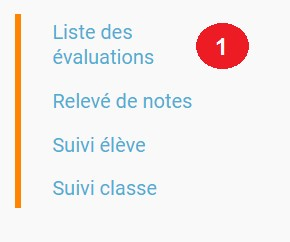
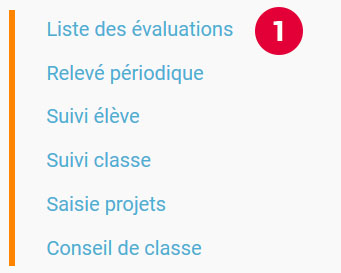
update doc competences

diff --git a/application/viescolaire.md b/application/viescolaire.md
@@ -12,190 +12,235 @@ Le module permet :
 * la mise à disposition d’un **relevé de notes**
 * la possibilité de remplacement d’enseignants \(pour le chef d’établissement\)
 
-![](.gitbook/assets/competences-presentation-2%20%282%29.jpg)
+![](.gitbook/assets/competences-presentation.jpg)
 
 ## Créer une évaluation avec des compétences
 
 Pour créer une évaluation **avec des compétences**, suivez les étapes suivantes :
 
-* Cliquez sur le bouton « Créer évaluation » \(1\)
+* Cliquez sur le bouton **« Nouvelle évaluation » \(1\)**
 
-![](.gitbook/assets/evaluation-avec-des-competences-1-2%20%282%29.jpg)
+![](.gitbook/assets/evaluation-avec-des-competences.jpg)
 
-* Sélectionner ou saisir les informations obligatoires suivantes \(2\) :
+![](.gitbook/assets/evaluation-avec-des-competences-2.jpg)
+
+* Sélectionner ou saisir les **informations obligatoires** suivantes **\(2\)** :
   * Établissement
-  * Classe ou groupe du cycle 3
+  * Classe ou groupe du cycle 3 ou du cycle 4
   * Matière
   * Type
-* Titre de l'évaluation et description \(3\)
-* Cocher si vous le souhaitez la case "Activer l'évaluation numérique ?" pour évaluer les élèves avec des notes ou pas. \(4\)
-* Modifier si besoin le coefficient et la note maximum \(5\)
-* Choisissez la période
+* **Titre** de l'évaluation et description **\(3\)**
+* Cocher si vous le souhaitez la case **"Activer l'évaluation numérique"** pour évaluer les élèves avec des notes **\(4\)**
+* Modifier si besoin le coefficient et la note maximum
+* Choisissez **la période \(5\)**
   * Date de l'évaluation et date de publication de la note
-  * Date de l'évaluation et date de publication de la note
-* Cliquer sur l’onglet "Compétences" \(6\)
+* Enfin l'option **"Rendre visible les appréciations saisies"** autorise l'affichage ou non des appréciations aux élèves et aux parents - cette option peut être activée directement lors de l'évaluation du dehors.**\(6\)**
 
-![](.gitbook/assets/evaluation-avec-des-competences-2-1-1.jpg)
 
-* Sélectionner des connaissances ou compétences \(7\)
-* Cliquez sur "Enregistrer" \(8\)
 
-![](.gitbook/assets/evaluation-avec-des-competences-3-1%20%281%29.jpg)
+* Cliquer sur l’onglet **"Compétences"** si vous osuhaitez ajouter des compétences à l'évaluation **\(7\)**
 
-## Créer une évaluation sans compétences
+![](.gitbook/assets/evaluation-avec-des-competences-3.jpg)
 
-Pour créer une évaluation **sans compétence**, suivez les étapes suivantes :
+* **Filtrer** les enseignements et / ou les domaines - rechercher un item de compétences **\(8\)**
+* Sélectionner des éléments signifiants ou des **items de compétences \(9\)**
+* Visualiser le **résumé de l'évaluation** que vous êtes sur le point de créer - les items de compétences peuvent être ordonnés grâce au glisser/déposer **\(10\)**
+* Cliquer sur **"Enregistrer"** pour sauvegarder l'évaluation **\(11\)**
 
-* Cliquez sur le bouton « Créer évaluation » \(1\)
-
-![](.gitbook/assets/evaluation-avec-des-competences%20%283%29.jpg)
-
-* Sélectionner ou saisir les informations obligatoires suivantes \(2\) :
-  * Établissement
-  * Classe ou groupe du cycle 3
-  * Matière
-  * Type
-* Titre de l'évaluation et description \(3\)
-* Cocher si vous le souhaitez la case "Activer l'évaluation numérique ?" pour évaluer les élèves avec des notes ou pas. \(4\)
-* Modifier si besoin le coefficient et la note maximum \(5\)
-* Choisissez la période
-  * Date de l'évaluation et date de publication de la note
-  * Date de l'évaluation et date de publication de la note
-* Cliquer sur l’onglet "Compétences" \(6\)
-
-![](.gitbook/assets/evaluation-avec-des-competences-2-1%20%283%29.jpg)
-
-_**Par défaut seuls les enseignants sont habilités à créer des évaluations.**_
+***Par défaut, seuls les enseignants sont habilités à créer des évaluations.***
 
 ## Evaluer un élève
 
 Pour évaluer les élèves suivez les étapes suivantes :  
-1. Cliquez sur le menu "Liste des évaluations"
+1. Cliquez sur le menu **"Liste des évaluations" \(1\)**
 
-![](.gitbook/assets/evaluer-un-eleve-1-2.jpg)
+![](.gitbook/assets/evaluer-un-eleve-1.jpg)
 
-1. Renseigner les critères
-2. Cliquer que le devoir à évaluer
+2. Renseigner **les critères \(2\)**
 
 ![](.gitbook/assets/evaluer-un-eleve-2%20%283%29.jpg)
 
-1. Le détail de l’évaluation est disponible sur la partie gauche de l’écran
-2. Si le devoir est numérique, il est possible de mettre des notes à chaque élève dans la colonne résultat \(possibilité d’utiliser le clavier pour se déplacer d’élèves en élèves\)
-3. Si le devoir possède une ou plusieurs compétences, il est possible d’évaluer les compétences des élèves avec les pastilles \(possibilité d’utiliser le clavier avec les touches de 0 à 4 pour évaluer les compétences\)
-   * Pastille grise : Compétence non évaluée
-   * Pastille rouge : Maitrise insuffisante
-   * Pastille orange : maitrise fragile
-   * Pastille jaune : maitrise satisfaisante
-   * Pastille verte : très bonne maitrise
+Le nombre des compétences ajoutées et le pourcentage d'avancement d'un devoir (noté ou avec des compétences à évaluer) est visibile directement sur cet écran.
 
-Le détail des compétences est disponible sur la partie droite de l’écran
+3. Cliquer sur **le devoir à évaluer \(3\)**
 
-1. Une appréciation peut être indiquée dans le champ Appréciation. Si le devoir comprend beaucoup de compétences, l’appréciation est accessible via le bouton :  ![](.gitbook/assets/evaluer-un-eleve-3.jpg)
+![](.gitbook/assets/evaluer-un-eleve-4-1.jpg)
 
-![](.gitbook/assets/evaluer-un-eleve-4.jpg)
+4. Le **détail de l’évaluation** est disponible sur la partie gauche de l’écran **\(4\)**
+
+5. Si l'évaluation numérique a été activée, il est possible de **mettre des notes à chaque élève dans la colonne résultat** \(possibilité d’utiliser le clavier pour se déplacer d’élèves en élèves\) **\(5\)**
+
+6. Si le devoir possède une ou plusieurs compétences, il est possible **d’évaluer les compétences** des élèves avec les pastilles \(possibilité d’utiliser le clavier avec les touches de 0 à 4 pour évaluer les compétences\)**\(6\)**
+   * ![](.gitbook/assets/pastille-grise.png) Pastille grise : Compétence non évaluée
+   * ![](.gitbook/assets/pastille-rouge.png) Pastille rouge : Maîtrise insuffisante
+   * ![](.gitbook/assets/pastille-orange.png) Pastille orange : Maîtrise fragile
+   * ![](.gitbook/assets/pastille-jaune.png) Pastille jaune : Maîtrise satisfaisante
+   * ![](.gitbook/assets/pastille-verte.png) Pastille verte : très bonne maîtrise
+
+Le **détail des compétences** est disponible sur la partie droite de l’écran **\(7\)**.
+
+7. Une **appréciation peut être indiquée dans le champ Appréciation \(8\)**. Si le devoir comprend beaucoup de compétences, l’appréciation est accessible via le bouton :  ![](.gitbook/assets/evaluer-un-eleve-3.jpg)
+
+Des **exports** vous seront proposés \(cartouches - formulaires de saisie vides - les résultats des devoirs\) **\(9\)**
+
+![](.gitbook/assets/cartouche1.jpg)
+
+![](.gitbook/assets/resultats-devoir-1.jpg)
 
 ## Accéder au relevé de notes
 
 Pour accéder au relevé de notes, suivez les étapes suivantes :
 
-1. Cliquez sur le menu «Relevés de notes »
+1. Cliquez sur le menu **«Relevés périodique » \(1\)**
 
-![](.gitbook/assets/releve-de-notes-1%20%281%29.jpg)
+![](.gitbook/assets/releve-de-notes.jpg)
 
-1. Renseigner les critères  
-2. Il est possible d’accéder aux détails des devoirs en cliquant sur l’entête de l’évaluation \(une évaluation avec des compétences est soulignée en orange\)  
-3. Il est possible de modifier les notes des élèves directement sur le relevé
+2. Renseigner **les critères \(2\)**
 
-![](.gitbook/assets/releve-de-notes-2-2%20%281%29.jpg)
+![](.gitbook/assets/releve-de-notes-2.jpg)
+
+3. Il est possible d’accéder aux **détails des devoirs** en cliquant sur l’entête de l’évaluation \(une évaluation avec des compétences est soulignée en orange\) **\(3\)**.
+
+4. Une aide à la saisie est proposée pour la **saisie des éléments du programme travaillés \(4\)**.
+
+5. Il est possible de **modifier les notes des élèves directement** sur le relevé. La moyenne peut, elle aussi, être ajustée ainsi que les appréciations de chaque élève. **\(5\)**.
+
+6. L'**affichage du relevé périodique peut être simplifié** en cliquant sur **"<<"** afin de n'afficher que les moyennes et les appréciations des élèves **\(6\)**.
+
+7. Le **clic sur le détail** pour un élève **\(7\)** permet de saisir ici également l'appréciation.
+
+![](.gitbook/assets/releve-de-notes-3-1.jpg)
+
+Un **rappel des moyennes** est affiché **\(8\)** et le positionnement calculé est modifiable.
+Les **notes détaillées obtenues lors des évaluations** (notes et compétences) apparaissent ici aussi **\(9\)**.
+En bas, on retrouve **l'historique de l'année \(10\)**.
+Le clic sur le **lien "Voir Détails" \(11\)** affiche le niveau obtenu par compétences de l'élève pour la période et la matière consultée.
+
+![](.gitbook/assets/releve-de-notes-4.jpg)
+
+Vous pouvez également consulter les **différents graphes** proposés par enseignement ou par domaine du socle **\(12\)**.
+
+![](.gitbook/assets/releve-de-notes-5.jpg)
 
 ## Suivre le niveau des élèves
 
 Pour suivre le niveau des élèves individuellement, suivez les étapes suivantes :
 
-1. Cliquez sur le menu « Suivi élève »
+1. Cliquez sur le menu **« Suivi élève » \(1\)**
 
-![](.gitbook/assets/suivre-le-niveau-des-eleves-1-1-2.jpg)
+![](.gitbook/assets/suivre-le-niveau-des-eleves-1.jpg)
 
-1. Renseigner les critères pour choisir un élève
-2. Il est possible d’afficher le détail des évaluations ayant entrainé le suivi d’une compétence en cliquant sur la compétence souhaitée.
+2. Renseigner les **critères pour choisir un élève \(2\)** - Visualisation de la fiche élève et accès à la légende sur la partie gauche de l'écran.
 
-![](.gitbook/assets/suivre-le-niveau-des-eleves-2-1.jpg)
+![](.gitbook/assets/suivre-le-niveau-des-eleves-2.jpg)
 
-1. Par défaut une vue graphique est affichée. Il est cependant possible d’accéder à une vue en liste
-2. L’ajout d’une évaluation libre est également possible sur cette page en cliquant sur « Ajouter une évaluation libre ». Elle permet d’évaluer la compétence de l’élève.
+3. Le clic sur la barre de compétences permet d'afficher le **détail des évaluations d'une compétence en particulier \(3\)**.
 
-![](.gitbook/assets/suivre-le-niveau-des-eleves-3-1%20%282%29.jpg)
+![](.gitbook/assets/suivre-le-niveau-des-eleves-3.jpg)
 
-## Visualiser le bilan de suivi des élèves
+Par défaut une **vue graphique** est affichée. Il est cependant possible d’accéder à une vue en liste \(4\).
 
-Pour voir le bilan du niveau des élèves individuellement, suivez les étapes suivantes :
-
-1. Cliquez sur le menu « Suivi élève »
-
-![](.gitbook/assets/suivre-le-niveau-des-eleves-1-2.jpg)
-
-1. Renseigner les critères pour choisir un élève  
-2. Il est possible d’afficher le bilan de compétences d’un élève en cliquant sur : ![](.gitbook/assets/visualisation-bilan-1%20%281%29.jpg) 
-
-![](.gitbook/assets/visualisation-bilan-2-1.jpg)
-
-Le bilan du niveau de compétence de l’élève est accessible
-
-![](.gitbook/assets/visualisation-bilan-3-1%20%281%29.jpg)
+L’ajout d’une évaluation libre est également possible sur cette page en cliquant sur **« Ajouter une évaluation libre » \(5\)**. Elle permet d’évaluer la compétence de l’élève.
 
 ## Visualiser le bilan de fin de cycle des élèves
 
 Pour voir le bilan du niveau des élèves individuellement, suivez les étapes suivantes :
 
-1. Cliquez sur le menu « Suivi élève »
+1. Cliquez sur le menu **« Suivi élève » \(1\)**
 
-![](.gitbook/assets/suivre-le-niveau-des-eleves-1%20%282%29.jpg)
+![](.gitbook/assets/suivre-le-niveau-des-eleves-1.jpg)
 
-1. Renseigner les critères pour choisir un élève
-2. Il est possible d’afficher le bilan de compétences d’un élève en cliquant sur : ![](.gitbook/assets/visualisation-bilan-5-2%20%282%29.jpg) 
+2. Renseigner les **critères pour choisir un élève \(2\)**
+
+3. Il est possible **d’afficher le bilan de compétences** d’un élève en cliquant sur : ![](.gitbook/assets/visualisation-bilan-5-2%20%282%29.jpg) **\(3\)**
 
 ![](.gitbook/assets/visualisation-bilan-4-1%20%282%29.jpg)
 
 Le bilan de fin de cycle de l’élève est accessible.
 
-![](.gitbook/assets/suivre-le-niveau-des-eleves-4-1.jpg)
+![](.gitbook/assets/suivre-le-niveau-des-eleves-4.jpg)
+
+Le bilan de fin de cycle peut être visualisé par période : par trimestre, pour l'année en cours ou sur le cycle en cours.
+
+Enfin, la **synthèse du bilan de fin de cycle peut être saisie sur cet écran \(6\)** ainsi que les enseignements de complément pour les élèves du cycle 4.
+
+## Exports relevés
+
+Depuis le suivi de l'élève, vous pouvez **exporter les relevés de compétences \(1\) et \(2\) ou relevés de notes**, s'ils existent \(3\) :
+
+![](.gitbook/assets/export1.png)
+
+Les exports de compétences peuvent être générés **par enseignement ou par domaine** - avec choix de matières et de la période - pour un élève \(1\) ou pour toute la classe \(2\).
+L'export de relevé de notes est généré pour un élève uniquement \(3\).
 
 ## Suivre le niveau de compétences des classes
 
 Pour suivre le niveau des compétences de classe, suivez les étapes suivantes :
 
-1. Cliquez sur le menu « Suivi classe »
+1. Cliquez sur le menu **« Suivi classe » \(1\)**
 
-![](.gitbook/assets/suivi-classe-2-1%20%282%29.jpg)
+![](.gitbook/assets/suivi-classe.jpg)
 
-1. Renseigner les critères pour choisir une classe
-2. Pour chaque compétence, le niveau de la classe est affiché sous forme de barre avec différents niveaux de maîtrise.
+2. Renseigner les **critères pour choisir une classe et une période \(2\)**
 
-Il est possible de cliquer sur une compétence pour afficher la liste des élèves avec leur niveau
+3. Pour chaque compétence, le niveau de la classe est affiché sous forme de barre avec différents niveaux de maîtrise atteint par chaque élève \(3\).
 
-![](.gitbook/assets/suivi-classe-2-1.jpg)
+Il est possible de **cliquer sur une compétence** pour afficher la liste des élèves avec leur niveau **\(3\)**.
 
-1. Il est possible de filtrer l’affichage des élèves suivant leur niveau de maitrise de la compétence.
-2. En cliquant sur un élève, s’affiche le suivi de compétence de l’élève
+![](.gitbook/assets/suiviclasse1.png)
 
-![](.gitbook/assets/suivi-classe-3%20%282%29.jpg)
+4. Il est possible de **filtrer l’affichage des élèves** suivant leur niveau de maîtrise de la compétence.
 
-## Effectuer un remplacement
+5. En cliquant sur un élève, s’affiche le **suivi de compétence de l’élève \(5\)**.
 
-Le remplacement d’un enseignant par un autre permet à l’enseignant remplaçant de pouvoir créer des évaluations sur les classes remplacées. L’enseignant titulaire a également la possibilité de voir et gérer ces évaluations.
+![](.gitbook/assets/suiviclasse2.png)
+
+Les exports proposés sur l'écran de suivi de classe \(6\) sont un **récapitulatif des niveaux acquis pour toute la classe** par domaine et un **export de relevé de compétences par élève de toute la classe.**
+
+![](.gitbook/assets/suiviclasse3.png)
+
+## Saisir les projets éducatifs
+
+POur saisir les projets éducatifs paramétrés, suivez les étapes suivantes :
+
+* Cliquer sur le menu **"Saisie de projets" \(1\)**
+
+![](.gitbook/assets/saisie-projet1.jpg)
+
+* Renseigner les critères pour **choisir une période et une classe. \(2\)**
+Tous les projets éducatifs paramétrés pour l'enseignant sur la période choisie et la classe apparaissent **triés par onglet \(3\)**: EPI, AP et Parcours.
+
+![](.gitbook/assets/projets.png)
+
+**Saisir les appréciations sur les élèves concernés par les projets \(4\)** : ces appréciations apparaîtront dans le bilan périodique.
+Vous pouvez aussi saisir une **appréciation pour la classe \(5\)**.
+
+## Exports LSU (chef d'établissement)
+
+Les exports LSU \(bilans de fin de cycle et bilans périodiques\) sont disponibles via le **menu "Export LSU"** - seul l'export **Bilan de fin de cycle est disponible** pour l'instant. L'export Bilan périodique est en cours de réalisation.
+
+![](.gitbook/assets/export-lsu1.jpg)
+
+Renseigner **les classes \(2\)** et les **responsables signant le bilan de fin de cycle \(3\)** puis cliquer sur le bouton **"Générer l'export"** \(Il faut qu'au moins un élève de la classe ait un bilan complet :tous les domaines sont évalués - sauf si facultatif - la synthèse est renseignée\).
+
+![](.gitbook/assets/exportLSU2.png)
+
+## Effectuer un remplacement (chef d'établissement)
+
+Le remplacement d’un enseignant par un autre **permet à l’enseignant remplaçant de pouvoir créer des évaluations** sur les classes remplacées. L’enseignant titulaire a également la possibilité de voir et gérer ces évaluations.
 
 Pour effectuer le remplacement d’un enseignant par un autre enseignant pour un temps donné :
 
-1. Cliquez sur le menu « Gérer les remplacements » ![](.gitbook/assets/remplacement-1-2.jpg)
-2. Renseigner les critères pour choisir l’enseignant à remplacer, l’enseignant remplaçant, ainsi que les dates durant lesquelles le remplacement a cours.
+1. Cliquez sur le menu **« Gérer les remplacements » \(1\)**
+
+![](.gitbook/assets/remplacement-1.jpg)
+
+2. Renseigner les **critères pour choisir l’enseignant à remplacer \(2\)**, **l’enseignant remplaçant**, ainsi que les **dates durant lesquelles le remplacement a cours**.
 
 ![](.gitbook/assets/remplacement-2-1%20%281%29.jpg)
 
-1. La liste des remplacements effectués s’affiche dans l’encart en bas de la page. Il est possible de trier sur les différents champs.
+3. La **liste des remplacements effectués** s’affiche dans l’encart en bas de la page. Il est possible de trier sur les différents champs.
 
-La sélection d’un ou plusieurs remplacements permet ensuite l’édition ou la suppression de ceux-ci
+![](.gitbook/assets/remplacement-4.jpg)
 
-![](.gitbook/assets/remplacement-3-1%20%281%29.jpg)
-
-Version de l’application en cours d’expérimentation
-
+La sélection d’un ou plusieurs remplacements permet ensuite l’édition ou la suppression de ceux-ci.
